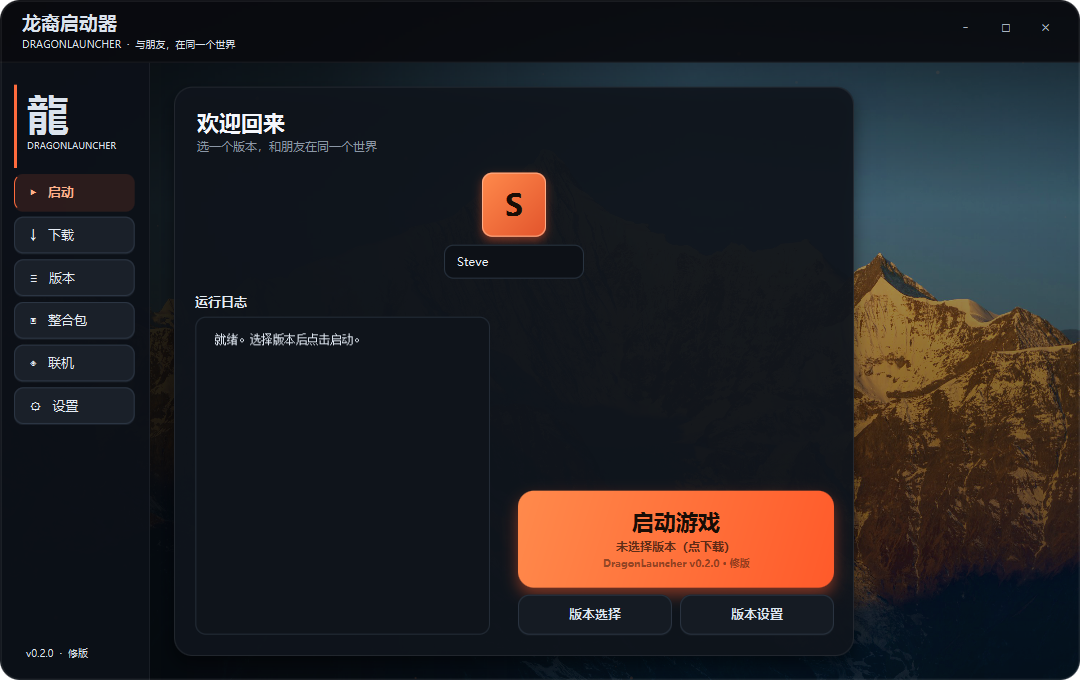
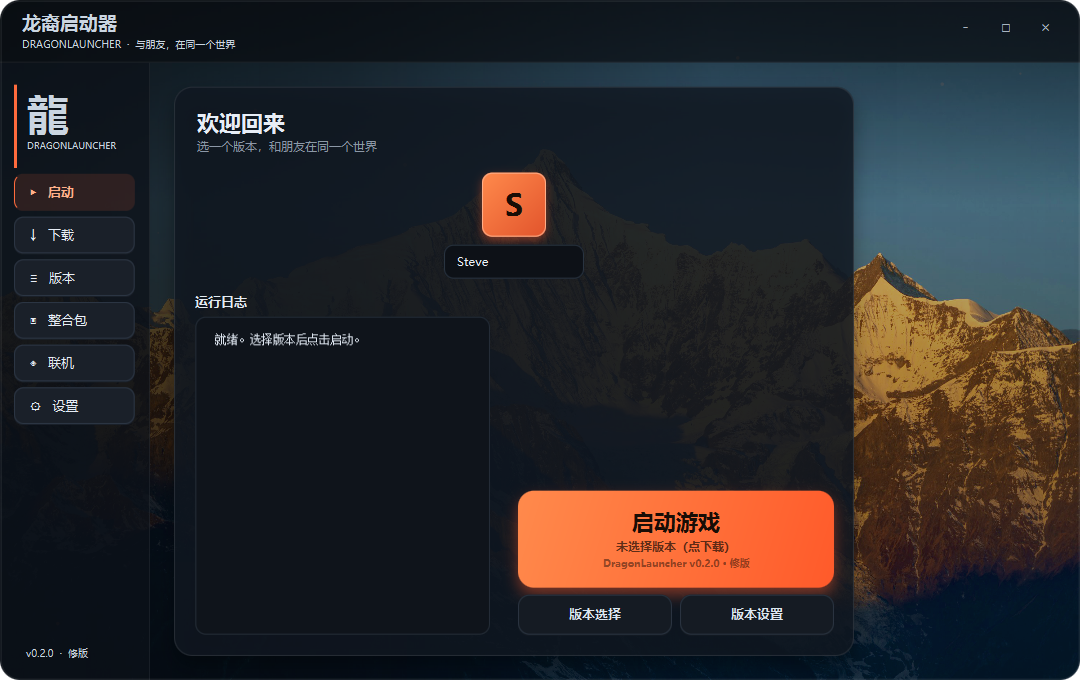
Soften black scrim and grade text; update v11 preview

diff --git a/assets/site.css b/assets/site.css
@@ -5,9 +5,9 @@
   --surface-2: #151d26;
   --line: rgba(255, 255, 255, 0.10);
   --line-soft: rgba(255, 255, 255, 0.06);
-  --text: #f2f6fa;
-  --text-soft: #c7d2de;
-  --muted: #8e9cab;
+  --text: #e8eff7;
+  --text-soft: #b9c7d6;
+  --muted: #8290a0;
   --accent: #ff6b3d;
   --accent-deep: #e95326;
   --accent-pale: #ffb08a;
@@ -46,13 +46,13 @@ button { font: inherit; }
   align-items: center;
   gap: 36px;
   padding: 0 max(24px, calc((100vw - var(--max)) / 2));
-  background: rgba(7, 10, 14, 0.86);
+  background: rgba(7, 10, 14, 0.70);
   border-bottom: 1px solid transparent;
   transition: background 180ms ease, border-color 180ms ease;
 }
 
 .site-header.scrolled {
-  background: rgba(7, 10, 14, 0.96);
+  background: rgba(7, 10, 14, 0.92);
   border-bottom-color: var(--line-soft);
 }
 
@@ -133,8 +133,8 @@ button { font: inherit; }
   inset: 0;
   z-index: 1;
   background:
-    linear-gradient(90deg, rgba(5, 7, 10, 0.94) 0%, rgba(5, 7, 10, 0.78) 36%, rgba(5, 7, 10, 0.10) 70%, rgba(5, 7, 10, 0.22) 100%),
-    linear-gradient(180deg, rgba(5, 7, 10, 0.55) 0%, transparent 28%, transparent 72%, rgba(5, 7, 10, 0.82) 100%);
+    linear-gradient(90deg, rgba(5, 7, 10, 0.78) 0%, rgba(5, 7, 10, 0.56) 36%, rgba(5, 7, 10, 0.08) 70%, rgba(5, 7, 10, 0.20) 100%),
+    linear-gradient(180deg, rgba(5, 7, 10, 0.48) 0%, transparent 28%, transparent 72%, rgba(5, 7, 10, 0.74) 100%);
 }
 
 .embers {
@@ -176,7 +176,7 @@ h1 {
   line-height: 1.02;
   letter-spacing: -0.05em;
   font-weight: 800;
-  color: #fff;
+  color: #f3f7fb;
 }
 h1 em {
   font-style: normal;

diff --git a/index.html b/index.html
@@ -149,8 +149,8 @@
           </dl>
           <a class="btn btn-primary btn-wide" href="downloads/DragonLauncher-修版.zip" download>下载修版</a>
           <div class="sha-row">
-            <code>12817035F2CEEA0ABF9D5AD7BA81ED5653DB18101891F3C547E3FC54F5F13DAC</code>
[1 lines of base64/hex data omitted]
+            <code>1B5E7F50318E9F6561481AF08DE000607B6F1ACB5F958CE57868AFE46D250D84</code>
[1 lines of base64/hex data omitted]
           </div>
         </article>
 
